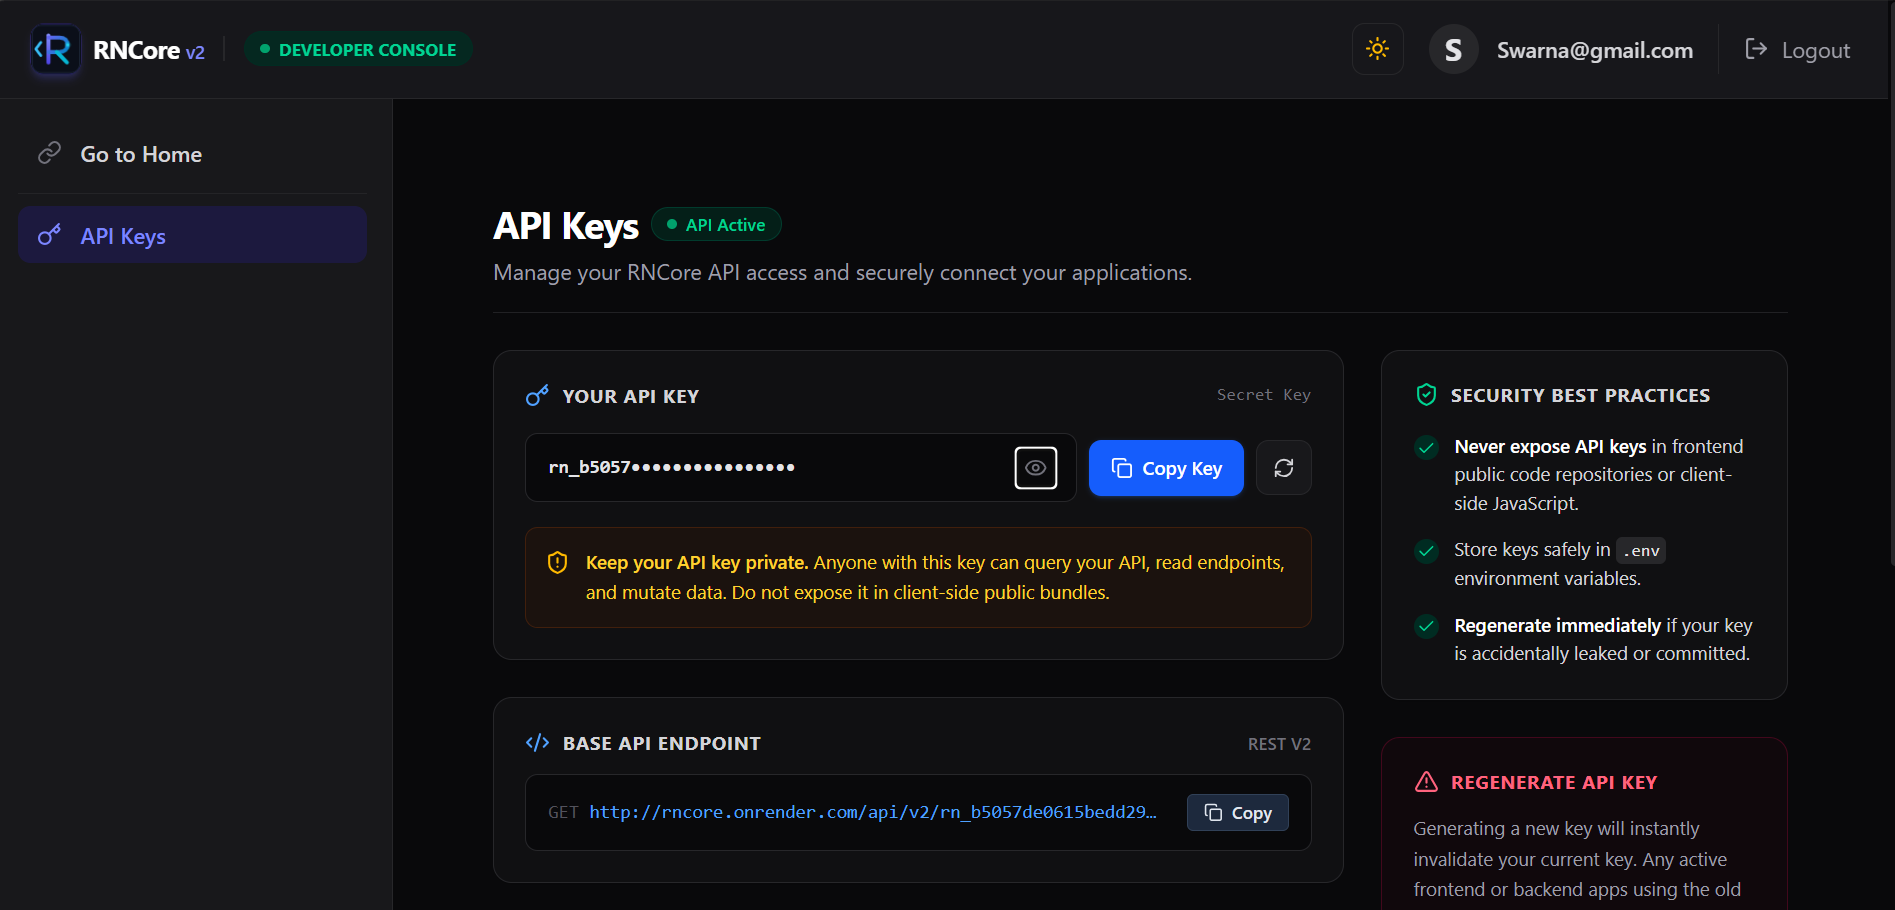
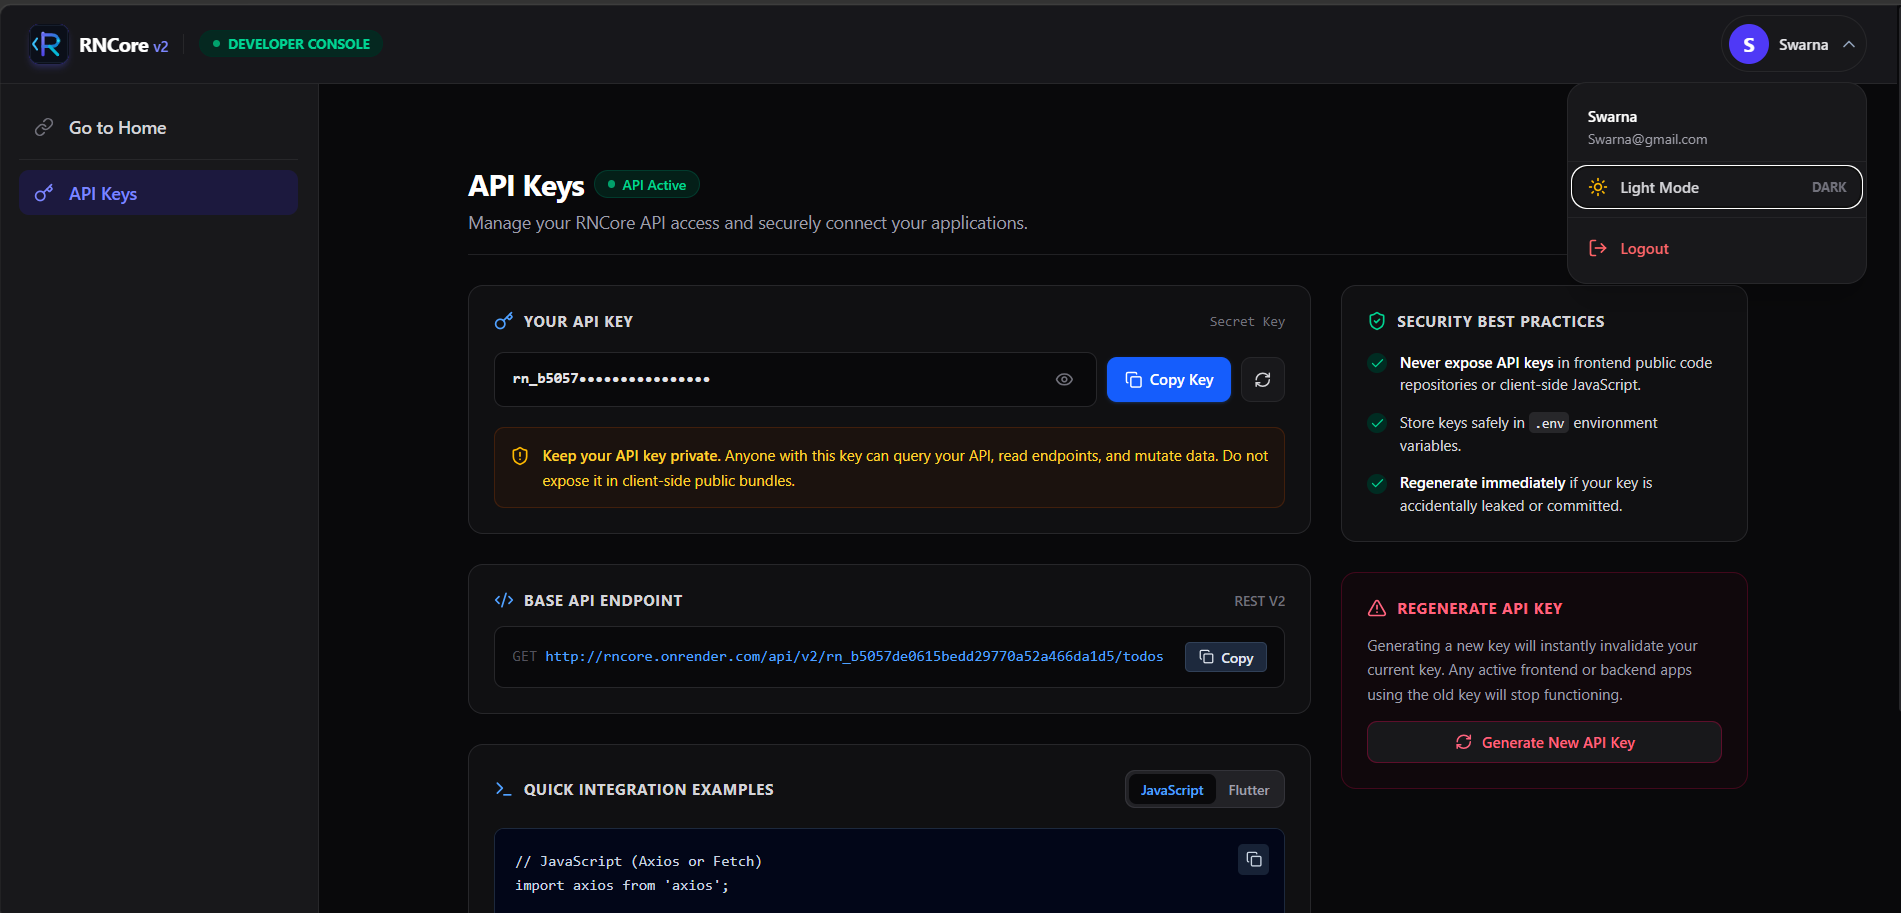
docs: readme

diff --git a/client/src/components/DevSidebar.jsx b/client/src/components/DevSidebar.jsx
@@ -1,5 +1,5 @@
 import React from 'react';
-import { LayoutDashboard, LinkIcon, Key, BookOpen, Settings } from 'lucide-react';
+import { LayoutDashboard, LinkIcon, Key, BookOpen, Settings, Home } from 'lucide-react';
 import { Link } from 'react-router-dom';
 
 const DevSidebar = ({ activeSection = 'overview', onSelect }) => {
@@ -42,7 +42,7 @@ const DevSidebar = ({ activeSection = 'overview', onSelect }) => {
         onClick={onSelect}
         className="flex items-center gap-3 px-3 py-2 text-sm font-medium rounded-lg transition-colors text-slate-600 hover:bg-slate-100 hover:text-slate-900 dark:text-zinc-300 dark:hover:bg-zinc-800/60 dark:hover:text-white mb-2"
       >
-        <LinkIcon className="w-4 h-4 text-slate-400 dark:text-zinc-500" />
+        <Home className="w-4 h-4 text-slate-400 dark:text-zinc-500" />
         <span>Go to Home</span>
       </Link>
 

diff --git a/client/src/pages/DeveloperDashboard.jsx b/client/src/pages/DeveloperDashboard.jsx
@@ -10,7 +10,7 @@ import Loader from '../components/Loader/Loader.jsx';
 import { useTheme } from '../context/ThemeContext.jsx';
 
 import DevAPIKeys from "./developerDashboard/DevAPIKeys.jsx";
-import DevSidebar from '../components/docs/DevSidebar.jsx';
+import DevSidebar from '../components/DevSidebar.jsx';
 
 import { logout as logoutAction } from "../features/auth/authSlice.js";
 import { logout as logoutApi } from "../features/auth/authService.js";

diff --git a/README.md b/README.md
@@ -10,21 +10,23 @@ This project is designed for students and beginner developers who want to unders
 
 ## 📸 App Preview
 
+<!-- Home Dashboard Light & Dark -->
 <p align="center">
-  <img src="screenshots/Home.png" alt="Home Light" width="48%" />
-  <img src="screenshots/Home_dark.png" alt="Home Dark" width="48%" />
+  <img src="screenshots/Home.png" alt="Home Light" width="48%" style="border-radius: 10px; border: 1px solid #30363d;" />
+  <img src="screenshots/Home_dark.png" alt="Home Dark" width="48%" style="border-radius: 10px; border: 1px solid #30363d;" />
 </p>
 <p align="center">
-  <sub><b>Home Dashboard</b> (Light & Dark Mode)</sub>
+  <sub>⚡ <b>Home Dashboard</b> — Light & Dark Theme Support</sub>
 </p>
 
 <br/>
 
+<!-- API Explorer -->
 <p align="center">
-  <img src="screenshots/API.png" alt="API Playground" width="98%" />
+  <img src="screenshots/API.png" alt="API Playground" width="98%" style="border-radius: 10px; border: 1px solid #30363d;" />
 </p>
 <p align="center">
-  <sub><b>API Documentation & Endpoint Explorer</b></sub>
+  <sub>🚀 <b>API Documentation | Developer Dashboard</b></sub>
 </p>
 
 ---
